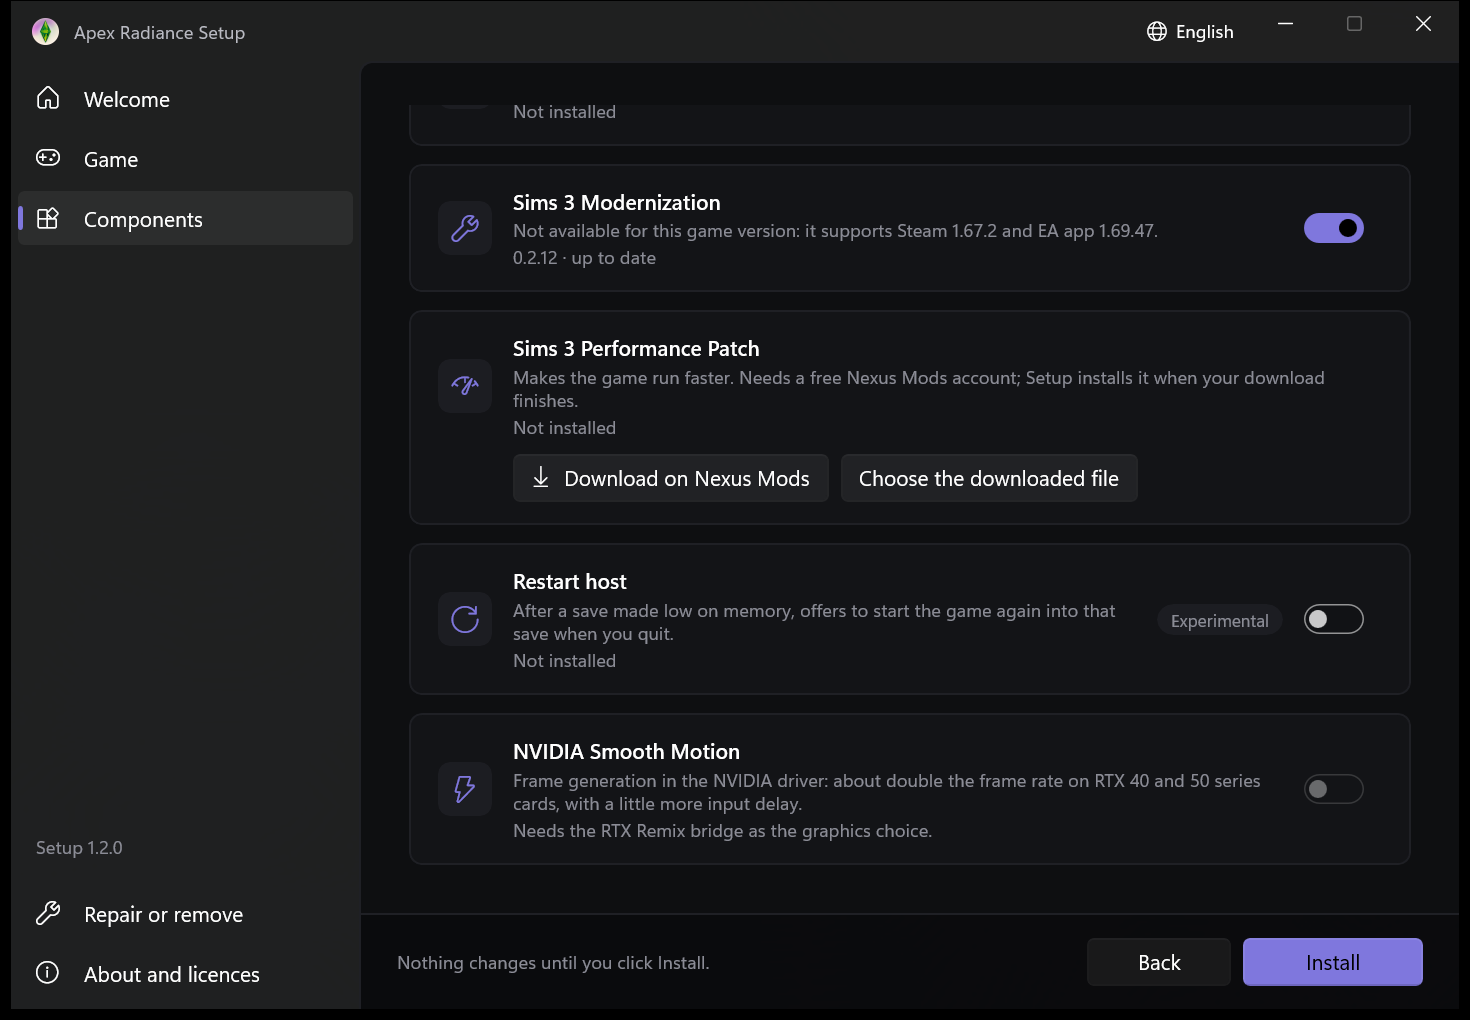
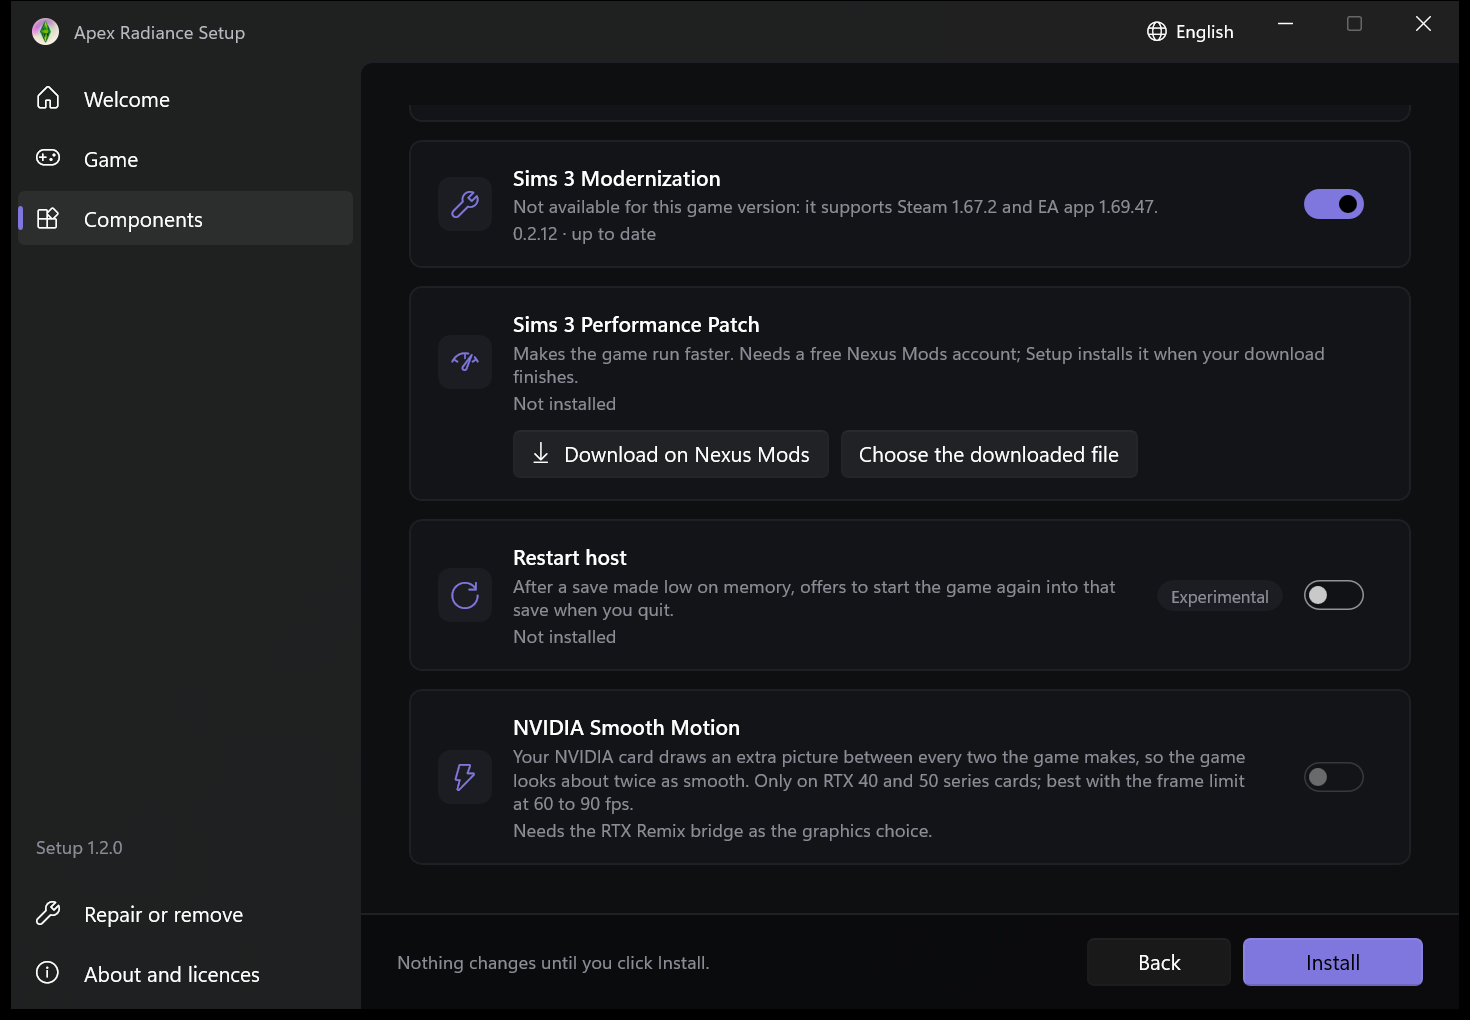
installer: document AFMF and both editions, new screenshots
AFMF behaviour and limitations, the APEX_SETUP_FAKE_AMD switch, Steam and EA app coverage, and screenshots from the final build in a dry run or with the fakes.

diff --git a/installer/README.md b/installer/README.md
@@ -57,7 +57,16 @@ only what differs from the player's choice.
   `Fs.WriteFpsKey`: its restore point puts back only that key (`FpsLimitKey`, `FpsLimitWas`). Off leaves the limit.
   `Engine.Remove` of the bridge or Apex (also by a renderer change and `RemoveAll`) calls `Engine.FrameGenOff`, which
   deletes Setup's profile when it is on and returns, never throws, a failure (`TakeFrameGenOffError`, shown on the row).
-  Repair, Setup's update and a later run only read the driver. Shown with an NVIDIA card; enabled with an RTX 40 or 50 series card, driver 571.86 or newer
+  Repair, Setup's update and a later run only read the driver.
+- AMD Fluid Motion Frames (Setup 1.2.0, `Afmf.cs`): the same row pattern through ADLX (`amdadlx64.dll`, C interface:
+  `ADLXQueryFullVersion`, `ADLXInitialize`, `IADLXSystem::Get3DSettingsServices`, `QueryInterface` to
+  `IADLX3DSettingsServices1`, `GetAMDFluidMotionFrames`, then `IsSupported`, `IsEnabled`, `SetEnabled`; vtable slots from the
+  ADLX 2.0 SDK headers). ADLX has AFMF as one setting for the whole system (no GPU, no application), so the row says it
+  applies to every game. Shown when ADLX starts (an AMD driver); enabled where ADLX reports it supported; the bridge is not
+  required. On writes `%LOCALAPPDATA%\Apex Radiance Setup\afmf-on.txt`; a removal of the bridge or Apex turns AFMF off only
+  when that file is there, so a setting the player turned on stays. The frame limit rule is Smooth Motion's.
+- Both editions: Steam 1.67.2 (`TS3W.exe`) and EA app 1.69 (`TS3.exe`) use the game's own exe and Documents folder; AFMF
+  needs nothing per edition. Shown with an NVIDIA card; enabled with an RTX 40 or 50 series card, driver 571.86 or newer
   and the bridge installed (DXVK is untested with it); an exe in a profile of the player's leaves the switch off and names
   that profile. Any NVAPI failure is shown on the row, never thrown. The driver write is unverified on a real card.
 - Languages: the 21 of The Sims 3, as the menu (`Languages.cs`): Windows' display language, or the one picked with the
@@ -120,7 +129,7 @@ dotnet publish installer/ApexSetup -c Release -o installer/publish
 `1.3|Intel(R) Iris(R) Xe Graphics|VK_KHR_load_store_op_none`), to see the screens of an old driver or an old card.
 `APEX_SETUP_FAKE_NV=<card>|<driver>|<on>|<owner profile>` stands in for NVAPI (for example
 `NVIDIA GeForce RTX 4070|57186|1|`, driver 571.86 written as 57186, on as 1) and makes the Smooth Motion switch write
-nothing.
+nothing. `APEX_SETUP_FAKE_AMD=<supported>|<on>` (for example `1|0`, or `none` for no AMD card) does the same for AFMF.
 
 The tests run the engine on a fake `Game\Bin` and Documents folder in `%TEMP%` with local files (no network, no game).
 For a manual run against a fake game: start the exe with the game folder as its argument and `APEX_SETUP_DOCUMENTS` set

diff --git a/docs/features/installer.md b/docs/features/installer.md
@@ -99,6 +99,21 @@ How it follows the other actions:
 |---|---|---|
 | ![Smooth Motion off](../images/installer/smooth-motion-off.png) | ![Smooth Motion on](../images/installer/smooth-motion-on.png) | ![Smooth Motion on an RTX 3080](../images/installer/smooth-motion-unsupported.png) |
 
+**AMD Fluid Motion Frames** (Setup 1.2.0) is the row after it, for AMD cards: frame generation in the AMD driver, through
+AMD's ADLX (`Afmf.cs`). ADLX has AFMF as one setting for the whole system, not per game, so the row says it applies to
+every game on the PC. The row shows when the AMD driver answers, and can be turned on where ADLX reports AFMF supported
+(AMD documents Radeon RX 6000 series or newer); it does not need the RTX Remix bridge. On also applies the frame limit rule
+above. Setup records that it turned AFMF on; removing the bridge or Apex (alone, by a renderer change or with *Uninstall
+everything*) turns it off only then, never a setting the player had on. Dry run, preview and the fake write nothing.
+
+| Off | On | Unsupported |
+|---|---|---|
+| ![AFMF off](../images/installer/afmf-off.png) | ![AFMF on](../images/installer/afmf-on.png) | ![AFMF unsupported](../images/installer/afmf-unsupported.png) |
+
+Both editions are covered: Steam 1.67.2 (`TS3W.exe`) and EA app 1.69.47 and 1.69.43 (`TS3.exe`). Smooth Motion's profile
+holds the game's own exe, the bridge check reads `client.targetProcess = TS3.exe` on the EA app, and the frame limit goes to
+the edition's Documents folder; AFMF needs nothing per edition.
+
 When the renderer changes the graphics card the game sees, the game resets its graphics options once: Setup says so
 and keeps a copy of `Options.ini`, restored when the player goes back to the game's own Direct3D 9.
 
@@ -126,6 +141,9 @@ and keeps a copy of `Options.ini`, restored when the player goes back to the gam
 - The Edge Smoothing suggestion reads `Options.ini` `edgesmoothing`, where Apex reads the back buffer: 0 was seen with
   no MSAA, and that every other value means MSAA is unverified in game. It changes the file only when the player clicks
   *Apply*.
+- AMD Fluid Motion Frames: unverified on a supported card (no RX 6000 or newer was available); the ADLX start and the
+  supported check were read on an AMD integrated GPU, which reports it unsupported. Whether AFMF reaches frames presented by
+  `NvRemixBridge.exe` (Vulkan) is unverified. The record that Setup turned it on is per Windows user, not per game folder.
 - NVIDIA Smooth Motion: the driver write is unverified on a real card (the reading is verified: card, driver, state).
   The profile holds exe names, not paths, so it applies to every game folder. An exe already in an NVIDIA predefined
   profile (the game's own) stays there and is not added; if that holds `NvRemixBridge.exe` too, the setting would not
